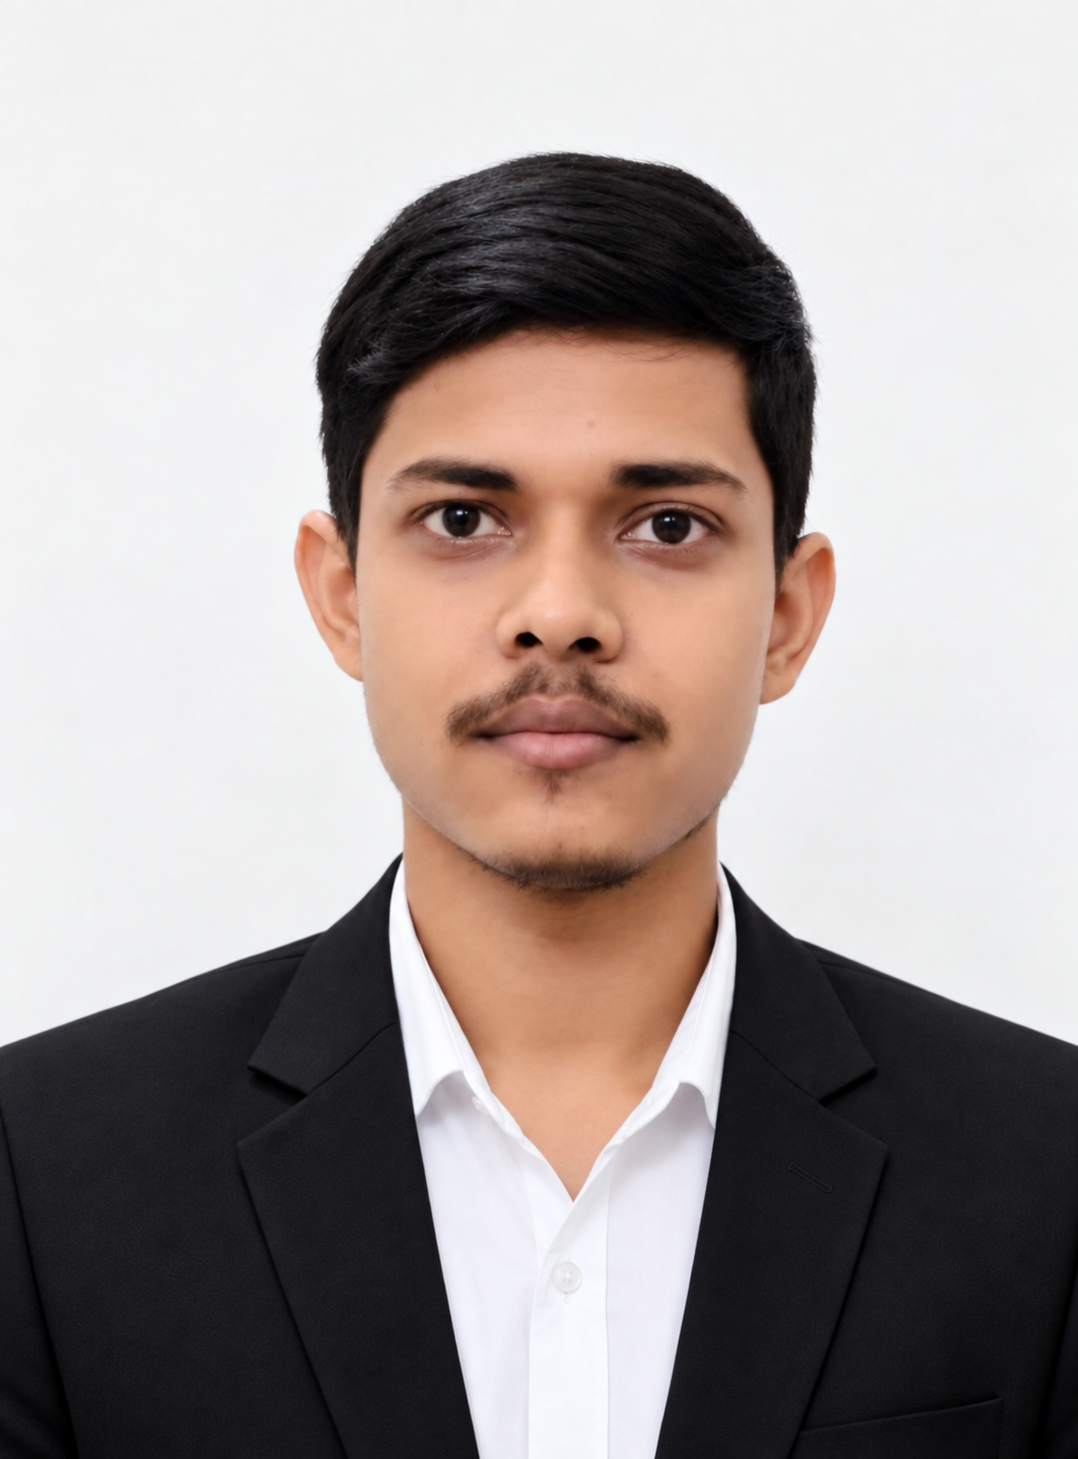
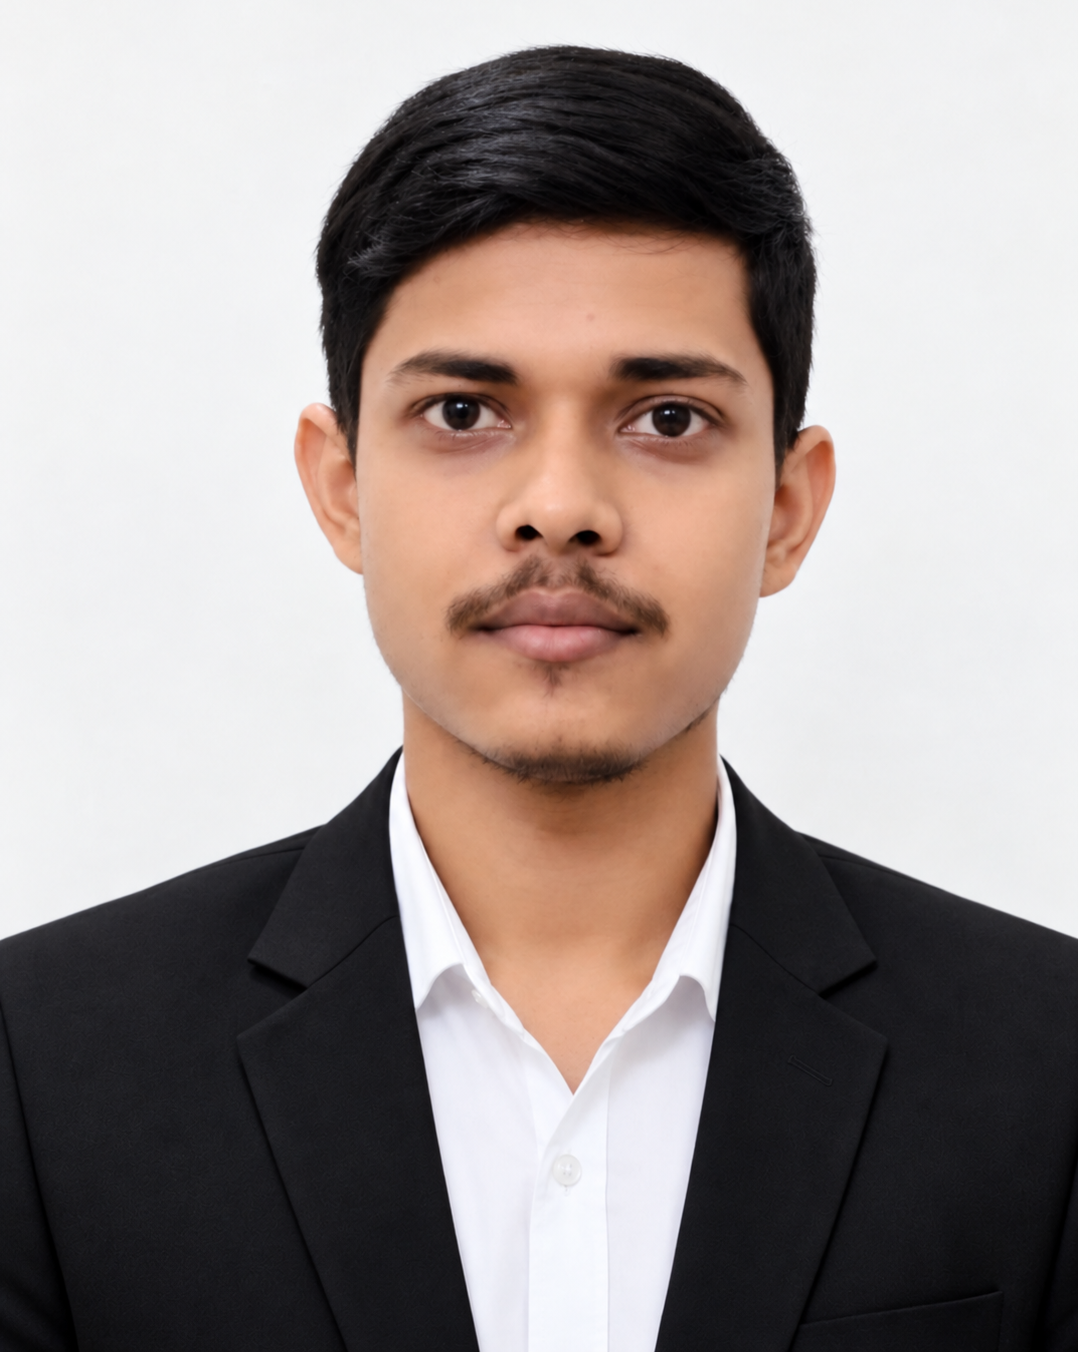
member updated

diff --git a/src/data/coreMembers.js b/src/data/coreMembers.js
@@ -104,8 +104,8 @@ export const coreMembers = [
         name: "Surya Pratap",
         designation: "Core Member",
         image: "/images/team/core-members/Surya-pratap.jpg",
-        email: "",
-        linkedin: "",
+        email: "suryapratapmodi401@gmail.com",
+        linkedin: "https://www.linkedin.com/in/suryaapratap",
     },
 
     {
